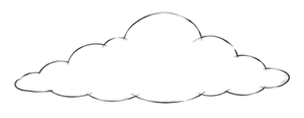
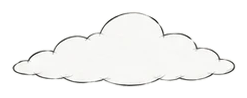
Use the zoomed-out Fl.own shop drawing on wide screens
The new wide drawing keeps the whole tree, every cloud and the end of
the path inside the picture, so the edge fade is gone there (the tall
drawing keeps it for now). Flowers, sign lettering, the four drifting
clouds and both doors are fitted to the new picture.

Claude-Session: https://claude.ai/code/session_01Vj384MXAKJQVspwYWpe1fj

Changed region(s): [[0.0283, 0.0918, 0.9636, 0.8878]]

diff --git a/bouquet/css/style.css b/bouquet/css/style.css
@@ -88,44 +88,42 @@ body:not([data-view="intro"]) .intro, body:not([data-view="app"]) .app, body:not
 .link:hover { color: var(--ink); }
 
 /* ---------- intro ---------- */
-/* one pencil-drawn flower shop fills the screen; only the flowers have colour. The two door leaves are
+/* one pencil-drawn flower shop on plain paper; only the flowers have colour. The two door leaves are
    the two ways in. Every position below is a share of the drawing (1672 x 941), so it scales with it. */
 .sr-only { position: absolute; width: 1px; height: 1px; margin: -1px; overflow: hidden; clip: rect(0 0 0 0); white-space: nowrap; }
-.intro { position: relative; height: 100svh; min-height: 520px; overflow: hidden; background: #F5F5F2; }
-/* the whole drawing fits with room around it, its edges fading into the same paper colour */
+.intro { position: relative; height: 100svh; min-height: 520px; overflow: hidden; background: #F9F8F5; }
+/* the whole drawing fits on screen; it already sits on its own margin of the same paper */
 .intro-scene { position: absolute; inset: 0; overflow: hidden; container-type: size; }
 .shop {
   position: absolute; left: 50%; top: 50%; transform: translate(-50%, -50%);
-  width: min(90cqw, 84cqh * 1672 / 941); aspect-ratio: 1672 / 941;
-  -webkit-mask-image: linear-gradient(to right, transparent, #000 5%, #000 95%, transparent), linear-gradient(to bottom, transparent, #000 4%, #000 94%, transparent);
-  -webkit-mask-composite: source-in;
-  mask-image: linear-gradient(to right, transparent, #000 5%, #000 95%, transparent), linear-gradient(to bottom, transparent, #000 4%, #000 94%, transparent);
-  mask-composite: intersect;
+  width: min(98cqw, 94cqh * 1672 / 941); aspect-ratio: 1672 / 941;
   animation: shop-in 1.2s var(--ease) both .05s;
 }
 @keyframes shop-in { from { opacity: 0; } }
 .shop picture, .shop-art { display: block; width: 100%; height: 100%; }
 .tall-only { display: none; }
 .cloud { position: absolute; height: auto; pointer-events: none; animation: drift 26s ease-in-out -9s infinite alternate; }
-.cloud-1 { left: 54.43%; top: 2.98%; width: 18.18%; }
-.cloud-2 { left: 80.14%; top: 11.69%; width: 19.62%; animation-duration: 32s; animation-delay: -12s; animation-direction: alternate-reverse; animation-name: drift-left; }
+.cloud-1 { left: 55.32%; top: 15.52%; width: 14.77%; }
+.cloud-2 { left: 77.69%; top: 20.94%; width: 15.73%; animation-duration: 32s; animation-delay: -12s; animation-direction: alternate-reverse; }
+.cloud-3 { left: 84.03%; top: 47.29%; width: 9.33%; animation-duration: 22s; animation-delay: -4s; }
+.cloud-4 { left: 3.41%; top: 48.14%; width: 9.03%; animation-duration: 28s; animation-delay: -17s; animation-direction: alternate-reverse; }
 @keyframes drift { from { transform: translateX(-22%); } to { transform: translateX(22%); } }
 @keyframes drift-left { from { transform: translateX(0); } to { transform: translateX(-38%); } }
 
 /* a door leaf: the warm shop light behind it, and the leaf itself (cut from the drawing) swinging in on its hinge */
 .door {
-  position: absolute; top: 55.79%; width: 7.12%; height: 29.76%; perspective: 900px;
+  position: absolute; top: 56.43%; height: 21.15%; perspective: 900px;
   background: linear-gradient(180deg, #F7E7C6, #EBD3A6); border-radius: 1px;
 }
-.door-l { left: 42.76%; }
-.door-r { left: 49.94%; }
+.door-l { left: 45.33%; width: 5.38%; }
+.door-r { left: 50.78%; width: 5.5%; }
 .door::after {
   content: ""; position: absolute; inset: 0;
-  background: url(../images/intro.webp) no-repeat; background-size: 1405% 336%;
+  background: url(../images/intro.webp) no-repeat;
   transition: transform .7s var(--ease), filter .7s var(--ease);
 }
-.door-l::after { background-position: 46.04% 79.43%; transform-origin: 0 50%; }
-.door-r::after { background-position: 53.77% 79.43%; transform-origin: 100% 50%; }
+.door-l::after { background-size: 1857.8% 472.9%; background-position: 47.91% 71.56%; transform-origin: 0 50%; }
+.door-r::after { background-size: 1817.4% 472.9%; background-position: 53.73% 71.56%; transform-origin: 100% 50%; }
 /* an opened leaf gets a firm outline so it reads as a door standing out of its frame */
 .door:hover::after, .door:focus-visible::after { box-shadow: inset 0 0 0 1.6px #2B2B2B; filter: drop-shadow(0 0 6px rgba(120, 80, 20, .25)); }
 .door-l:hover::after, .door-l:focus-visible::after { transform: rotateY(-24deg); }
@@ -134,9 +132,16 @@ body:not([data-view="intro"]) .intro, body:not([data-view="app"]) .app, body:not
 @media (prefers-reduced-motion: reduce) { .cloud { animation: none; } .door::after { transition: none; } }
 .intro-paths { display: none; }
 
-/* tall screens get the portrait drawing (941 x 1672): its own doors and clouds */
+/* tall screens get the portrait drawing (941 x 1672): its own doors and clouds. That drawing still runs
+   off its edges, so they fade into the paper */
 @media (max-aspect-ratio: 4/5) {
-  .shop { width: min(100cqw, 90cqh * 941 / 1672); aspect-ratio: 941 / 1672; }
+  .shop {
+    width: min(100cqw, 90cqh * 941 / 1672); aspect-ratio: 941 / 1672;
+    -webkit-mask-image: linear-gradient(to right, transparent, #000 5%, #000 95%, transparent), linear-gradient(to bottom, transparent, #000 4%, #000 94%, transparent);
+    -webkit-mask-composite: source-in;
+    mask-image: linear-gradient(to right, transparent, #000 5%, #000 95%, transparent), linear-gradient(to bottom, transparent, #000 4%, #000 94%, transparent);
+    mask-composite: intersect;
+  }
   .wide-only { display: none; }
   .tall-only { display: block; }
   .cloud-t1 { left: 28.8%; top: 7.12%; width: 33.48%; }

diff --git a/bouquet/index.html b/bouquet/index.html
@@ -25,8 +25,10 @@
         <source media="(max-aspect-ratio: 4/5)" srcset="images/intro-tall.webp" width="941" height="1672">
         <img class="shop-art" src="images/intro.webp" width="1672" height="941" alt="연필로 그린 작은 꽃집. 문 옆 양동이 세 개와 창가 화분에만 색이 있는 꽃이 담겨 있고, 문 앞에 고양이가 앉아 있어요." fetchpriority="high">
       </picture>
-      <img class="cloud cloud-1 wide-only" src="images/intro-cloud-1.png" width="304" height="118" alt="">
-      <img class="cloud cloud-2 wide-only" src="images/intro-cloud-2.png" width="328" height="136" alt="">
+      <img class="cloud cloud-1 wide-only" src="images/intro-cloud-1.png" width="247" height="98" alt="">
+      <img class="cloud cloud-2 wide-only" src="images/intro-cloud-2.png" width="263" height="109" alt="">
+      <img class="cloud cloud-3 wide-only" src="images/intro-cloud-3.png" width="156" height="77" alt="">
+      <img class="cloud cloud-4 wide-only" src="images/intro-cloud-4.png" width="151" height="75" alt="">
       <img class="cloud cloud-t1 tall-only" src="images/intro-tall-cloud-1.png" width="315" height="124" alt="">
       <img class="cloud cloud-t2 tall-only" src="images/intro-tall-cloud-2.png" width="296" height="122" alt="">
       <button type="button" class="door door-l" data-start><span class="sr-only" data-start-label>직접 고르기</span></button>

diff --git a/bouquet/README.md b/bouquet/README.md
@@ -35,7 +35,7 @@
 | 꽃마다 분위기(`vibes`)·어울리는 마음(`moods`), 색마다 색감(`tones`) | `data.js`의 꽃 목록과 색 팔레트 |
 | 꽃 그림 | `images/flowers/` 폴더에 PNG 넣기 → 규칙은 [images/flowers/README.md](images/flowers/README.md) |
 | AI 실사 이미지 | `images/real/` 폴더에 JPG 넣기 → 규칙은 [images/real/README.md](images/real/README.md) |
-| 첫 화면 그림 | `images/intro.webp` (AI로 그린 꽃집 스케치에 꽃만 색을 입힌 그림, 1672×941). 세로로 긴 화면용은 `images/intro-tall.webp`(941×1672)예요. 흘러가는 구름은 그림마다 두 개씩 `images/intro-cloud-1·2.png`, `images/intro-tall-cloud-1·2.png`로 따로 떼어 두었어요. 그림을 바꾸면 `css/style.css`의 문·구름 위치(%)도 같이 맞춰야 해요 |
+| 첫 화면 그림 | `images/intro.webp` (AI로 그린 꽃집 스케치에 꽃만 색을 입힌 그림, 1672×941). 세로로 긴 화면용은 `images/intro-tall.webp`(941×1672)예요. 흘러가는 구름은 가로 그림에서 네 개(`images/intro-cloud-1~4.png`), 세로 그림에서 두 개(`images/intro-tall-cloud-1·2.png`)를 따로 떼어 두었어요. 그림을 바꾸면 `css/style.css`의 문·구름 위치(%)도 같이 맞춰야 해요 |
 | 색·글씨·여백 같은 디자인 | `css/style.css` 맨 위 `:root` 부분 |
 | 꽃다발 위 큰 영문 제목 (ONE STEM. AT A TIME. 등) | `js/app.js`의 `TITLES` |
 
